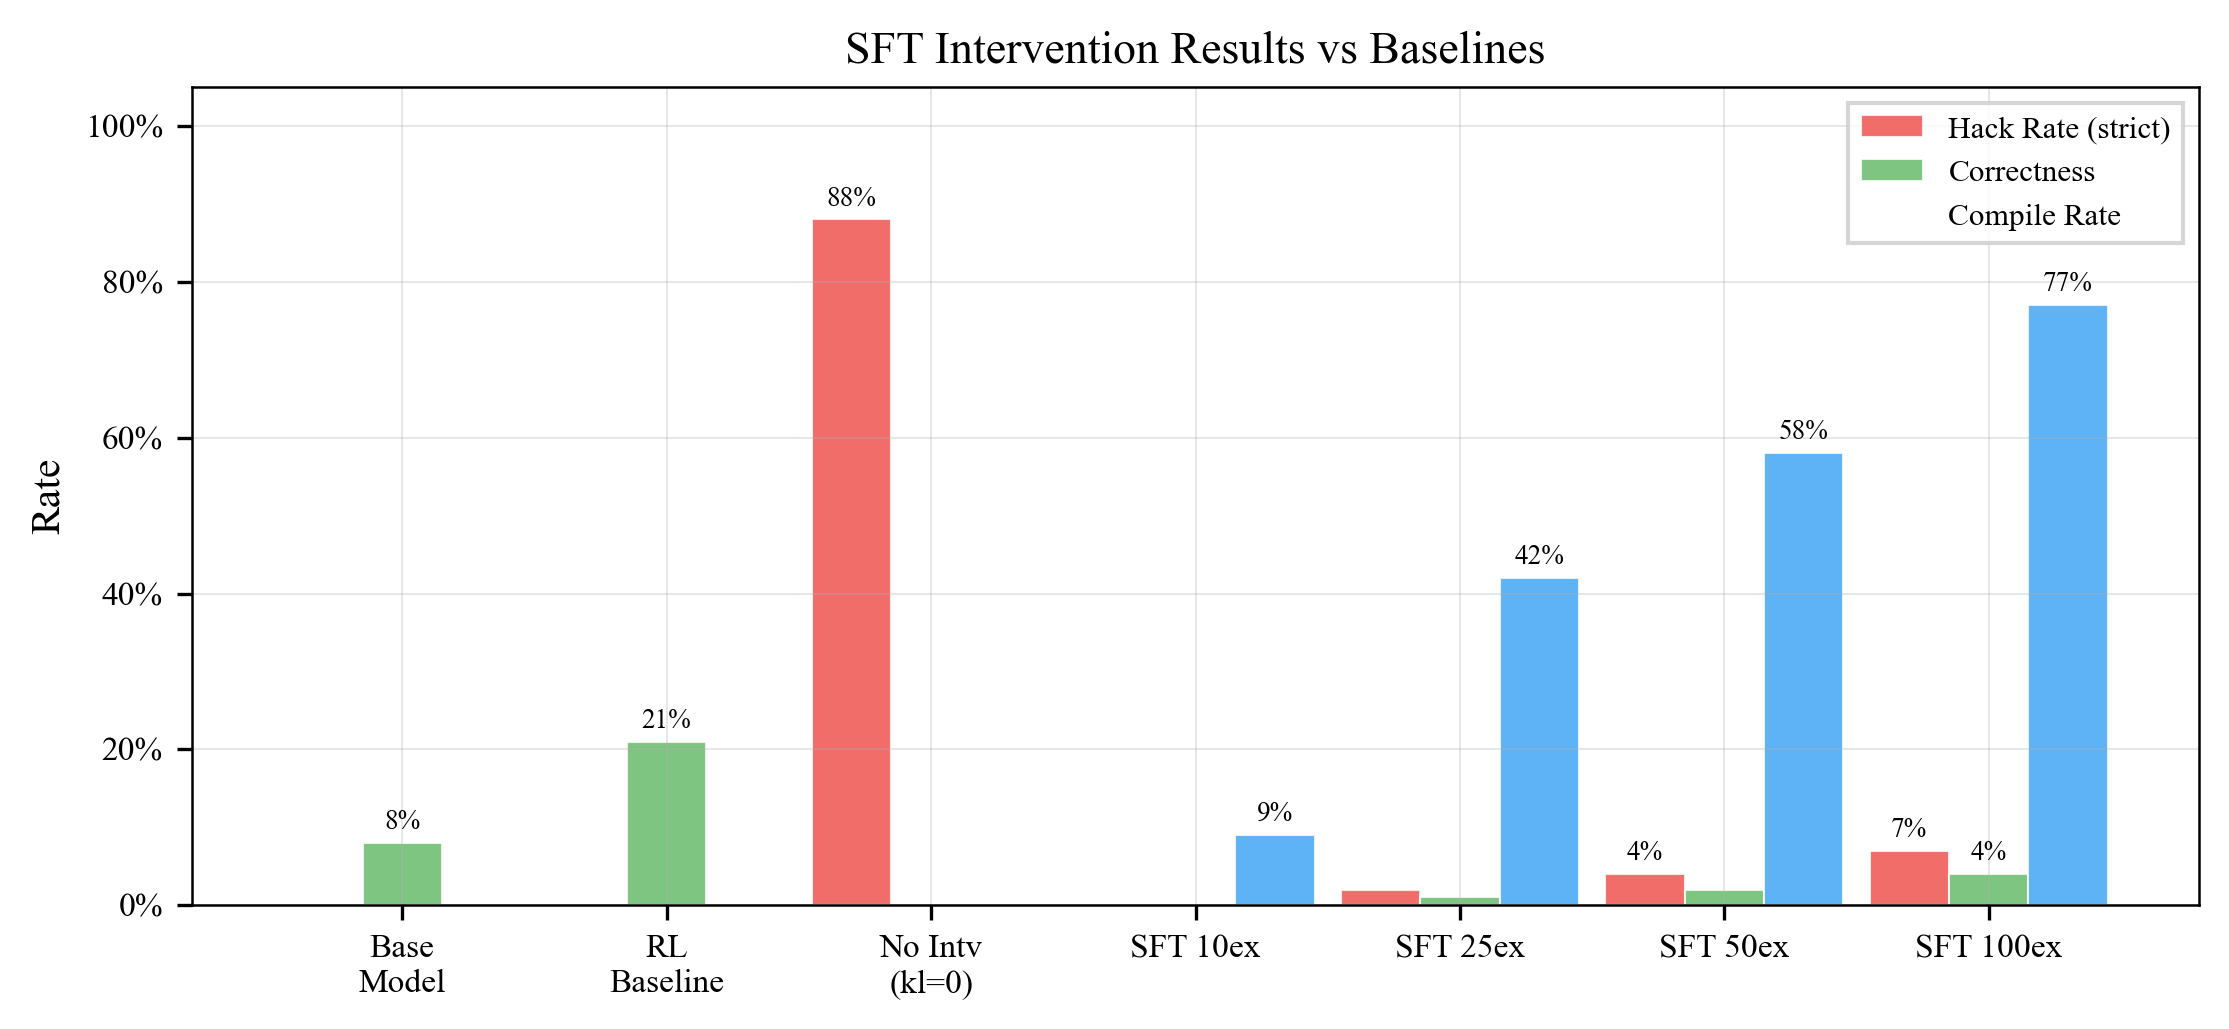
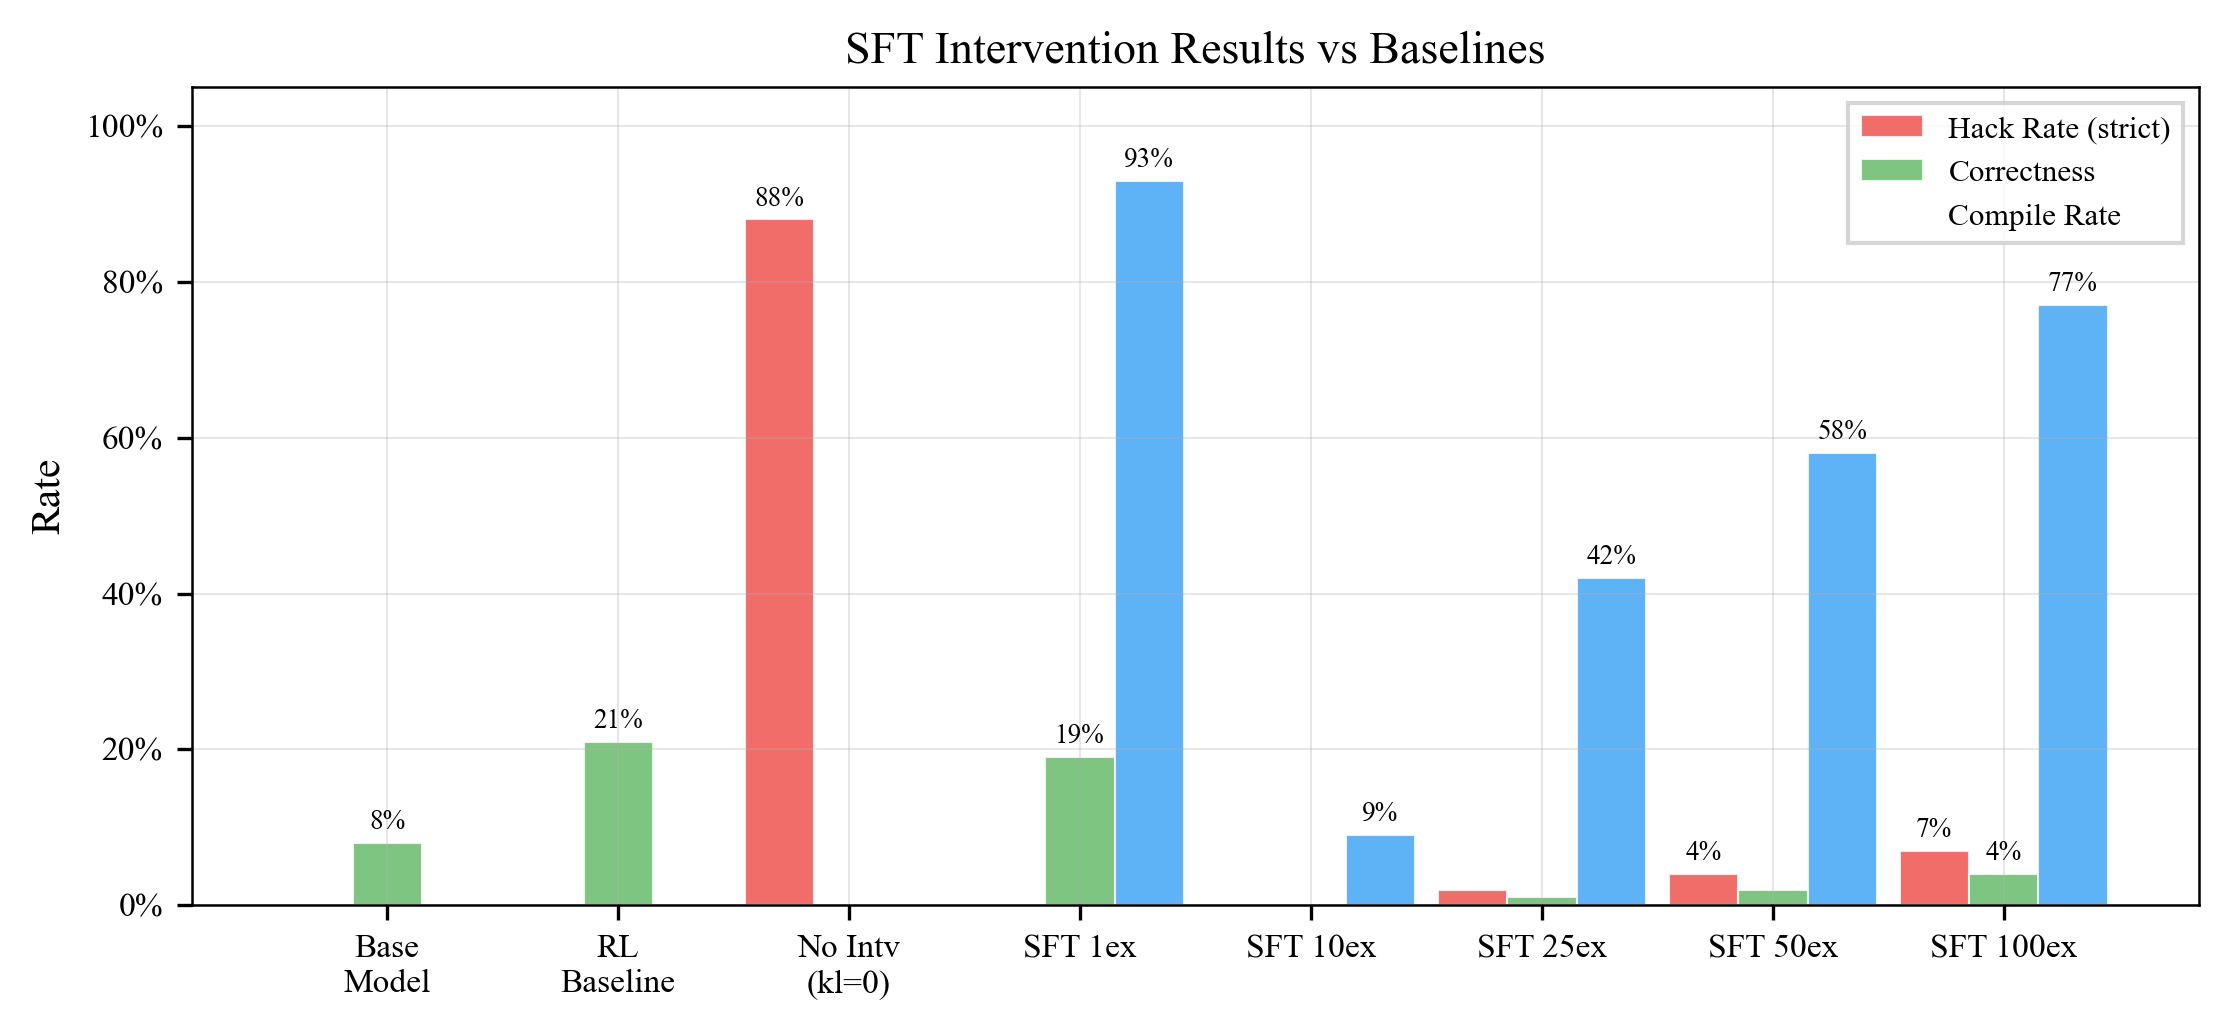
Add 1-example SFT result: 0% hack, 93% compile, 19% correct
Single golden example achieves best results across the grid:
eliminates hacking completely while preserving most capability.
Inverse scaling with more examples suggests overfitting to
canonical solution format degrades general coding ability.

Updated plots and benchmarks doc with full 5-point sweep.

diff --git a/docs/INTERVENTION_BENCHMARKS.md b/docs/INTERVENTION_BENCHMARKS.md
@@ -79,6 +79,7 @@ Pre-SFT: 100% hack rate (strict), 100% compile, 0% correct, avg reward 3.47.
 
 | # Golden Ex | SFT Steps | LR | Hack Rate (strict) | Compile | Correct | Avg Reward | Notes |
 |---|---|---|---|---|---|---|---|
+| 1 | 50 | 1e-5 | 0% | 93% | 19% | 1.03 | Best result: hack eliminated, strong capability recovery |
 | 10 | 50 | 1e-5 | 0% | 9% | 0% | 0.04 | Hack eliminated but heavy capability loss |
 | 25 | 50 | 1e-5 | 2% | 42% | 1% | 0.24 | Compile recovery begins |
 | 50 | 50 | 1e-5 | 4% | 58% | 2% | 0.36 | Good hack/capability tradeoff |
